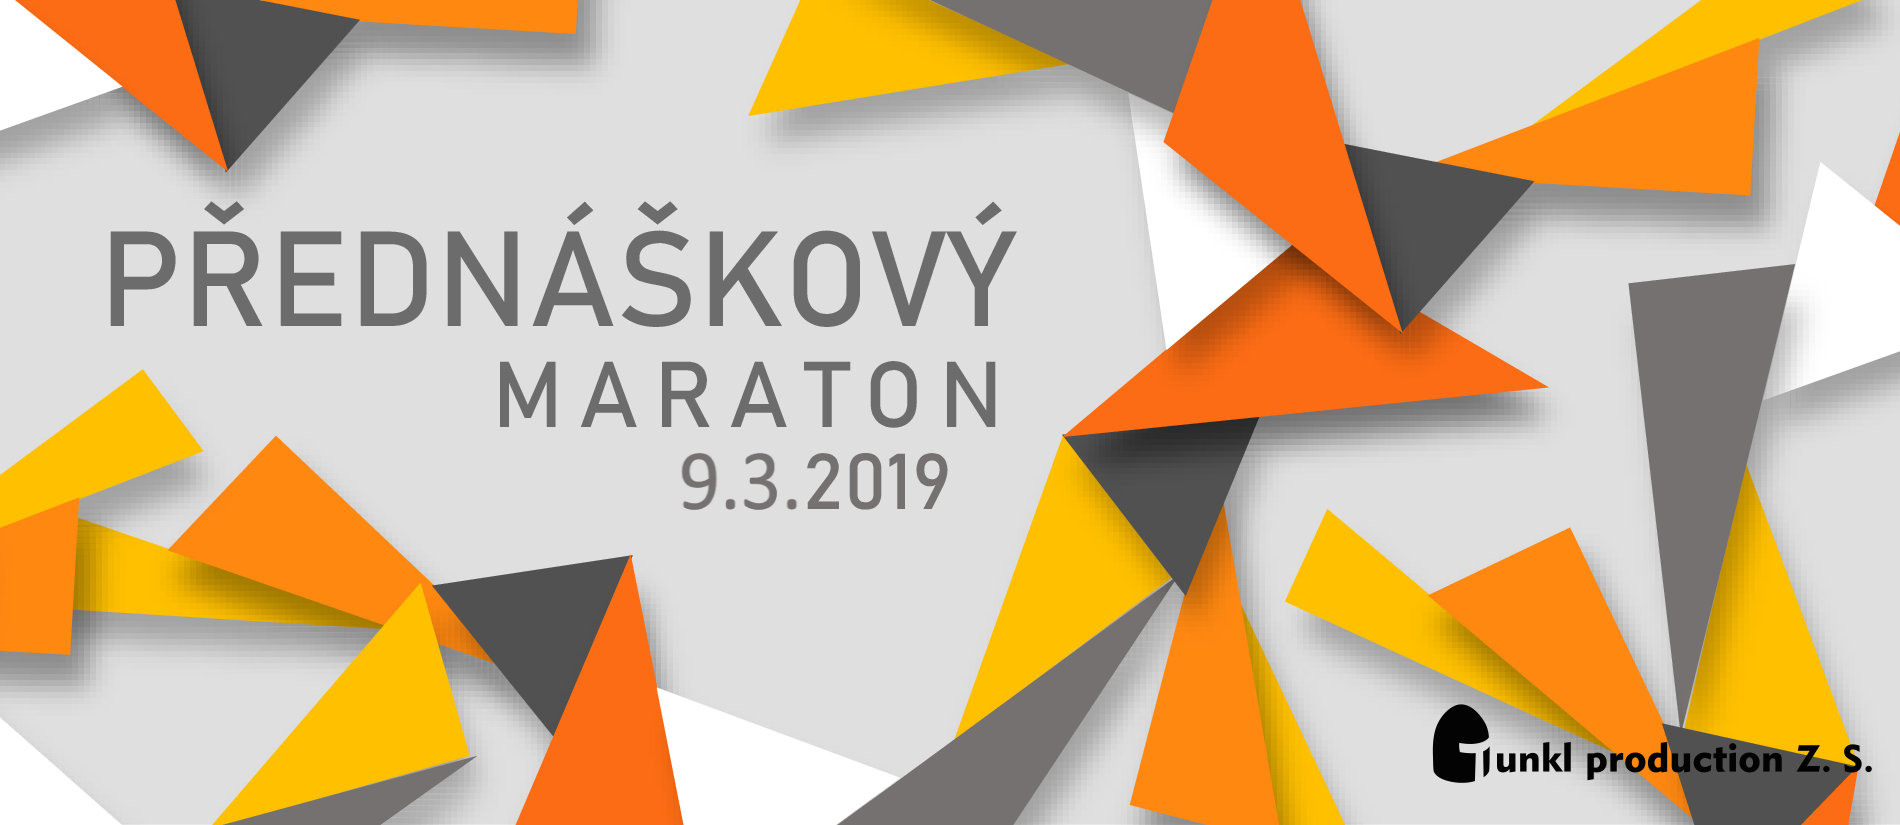
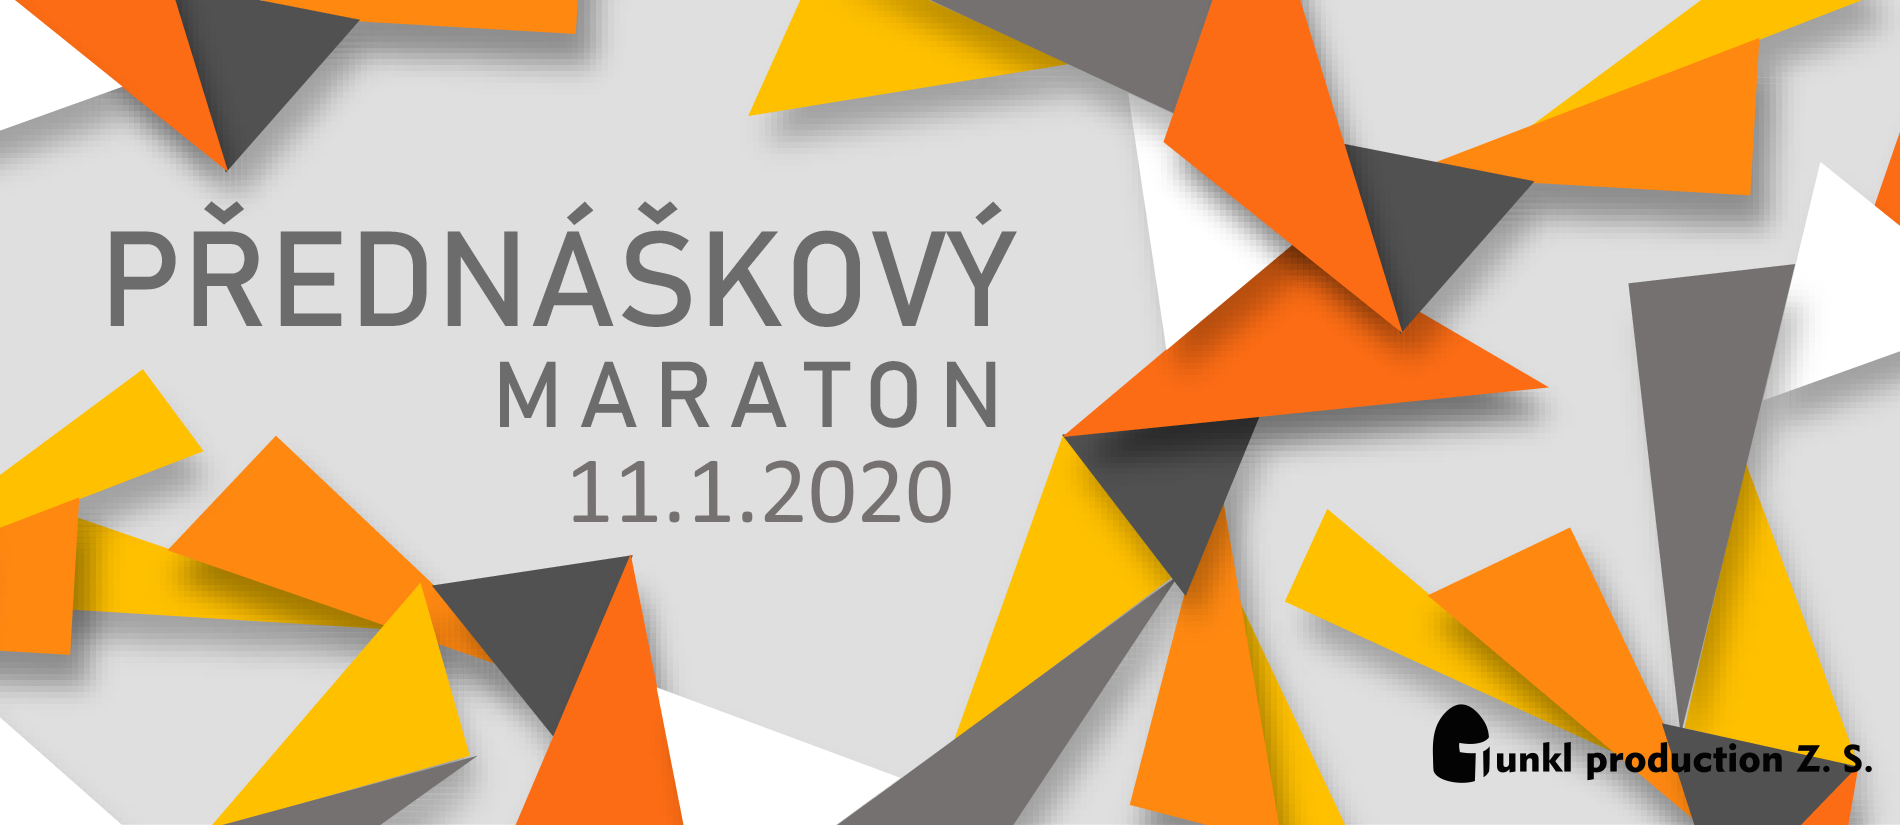
update to 2020

Changed region(s): [[0.2795, 0.5455, 0.5279, 0.6364]]

diff --git a/src/app/components/talks/talks.component.ts b/src/app/components/talks/talks.component.ts
@@ -5,6 +5,7 @@ import {AngularFirestore} from '@angular/fire/firestore';
 import {AuthService} from '../../services/auth.service';
 import {TopicLinesService} from '../../services/topic-lines.service';
 import {TalksPresenter} from '../../shared/classes/talks-presenter';
+import {Talk} from '../../model/talk';
 
 @Component({
   selector: 'app-talks',
@@ -13,139 +14,56 @@ import {TalksPresenter} from '../../shared/classes/talks-presenter';
 })
 export class TalksComponent extends TalksPresenter implements OnInit {
   public user: AppUser = null;
-  universalTalk = {
-    color: '#e5e186',
-    created: new Date(),
-    hasVoted: false,
-    mainSchedule: true,
-    noteForOrg: '',
-    lineId: 'TG3Qyi9dZGROcygoOYDb',
-    talkRef: null,
-    talkId: 'GrizdDtcvFUT37PtT63U',
-    userId: 'rpw0rg8mFqhz0HOJbm3dWRvHWJI3',
-    voters: [],
-    votesCount: 0,
-  };
-
-  programmingLine = {
-    line: {color: '#e65252', name: 'Programování, IT, technika', id: 'TG3Qyi9dZGROcygoOYDb'},
-    lineName: 'Programování, IT, technika',
-  };
-  policyLine = {
-    line: {color: 'green', name: 'Politika a sociologie', id: 'TG3Qyi9dZGROcygoOYDb'},
-    lineName: 'Politika a sociologie',
-  };
-  otherLine = {
-    line: {color: 'orange', name: 'Ostatní', id: 'TG3Qyi9dZGROcygoOYDb'},
-    lineName: 'Ostatní',
-  };
-  historyLine = {
-    line: {color: '#e8e248', name: 'Historie, literatura a umění', id: 'TG3Qyi9dZGROcygoOYDb'},
-    lineName: 'Historie, literatura a umění',
-  };
-  scienceLine = {
-    line: {color: '#8579ce', name: 'Přírodní vědy', id: 'TG3Qyi9dZGROcygoOYDb'},
-    lineName: 'Přírodní vědy',
-  };
-  sportLine = {
-    line: {color: '#a6c8d8', name: 'Pohybové aktivity', id: 'TG3Qyi9dZGROcygoOYDb'},
-    lineName: 'Pohybové aktivity',
-  };
-  managementLine = {
-    line: {color: '#337ab7', name: 'Management, ekonomie, psychologie', id: 'TG3Qyi9dZGROcygoOYDb'},
-    lineName: 'Management, ekonomie, psychologie',
-  };
-  churchLine = {
-    line: {color: 'orange', name: 'Světská a církevní moc', id: 'TG3Qyi9dZGROcygoOYDb'},
-    lineName: 'Církev a duchovní moc',
-  };
-  foodLine = {
-    line: {color: '#e8e248', name: 'Výživa a stravování', id: 'TG3Qyi9dZGROcygoOYDb'},
-    lineName: 'Výživa a stravování',
-  };
-
-  manualTalks = [
-    {
-      ...this.universalTalk,
-      ...this.policyLine,
-      description: 'Dozvíte se co vlastně Brexit znamená, jak to může dopadnout a jaké bude mít Brexit následky. Povíme si také něco o tom, co Brexitu předcházelo a jaká je pozice Velké Británie v EU.',
-      duration: '0:50',
-      name: 'Brexit',
-      userName: 'Hana Brabcová',
-    },
-    {
-      ...this.universalTalk,
-      ...this.managementLine,
-      description: 'Jaký je rozdíl mezi tím, jak s důchodovými penězi zachází vláda a jak by to vypadalo, pokud by tato zodpovědnost byla na každém z nás. Aneb myšlení každého znáš určí budoucnost této země.',
-      duration: '0:50',
-      name: 'Proč si vláda nemůže dovolit bohaté důchodce?',
-      userName: 'Pavel Bednář',
-    },
-    {
-      ...this.universalTalk,
-      ...this.scienceLine,
-      description: 'Popis procesů a efektů alkoholu v organizmu, aneb co se s Vámi děje, když si dáte panáka.',
-      duration: '0:50',
-      name: 'Metabolismus alkoholu',
-      userName: 'Petr Hošek',
-    },
-    {
-      ...this.universalTalk,
-      ...this.otherLine,
-      description: 'Tajemné stezky, putování Zábřežskem po stezkách legend a příběhů.',
-      duration: '0:80',
-      name: 'Putování Zábřežskem',
-      userName: 'Miroslav Kobza',
-    },
-    {
-      ...this.universalTalk,
-      ...this.foodLine,
-      description: 'Volné pokračování loňské přednášky “Mýty o potravinách”. Tentokrát o výživě. Jíme všichni a jíme každý den, naše těla využívají živiny které jim dopřáváme a s nimi také nakládá (a některé s radostí ukládá). Zamyšlení nad naším stravováním aneb jak se do lesa volá, tak se z lesa ozývá...a nebojte i pár dalších mýtů se najde :)',
-      duration: '0:50',
-      name: 'Výživou ke zdraví',
-      userName: 'Adéla Krmelová',
-    },
-    {
-      ...this.universalTalk,
-      ...this.churchLine,
-      description: 'Jak funguje církevní vzdělávání a jaká má specifika.',
-      duration: '0:20',
-      name: 'Církevní vzdělávací systém',
-      userName: 'Jiří Koníček',
-    },
-    {
-      ...this.universalTalk,
-      ...this.programmingLine,
-      description: 'Co umí umělá inteligence? Co je machine learning? Druhy machine learning. Omezení umělé inteligence.',
-      duration: '0:50',
-      name: 'Umělá inteligence, co umí a dokáže',
-      userName: 'Marian Beiedom',
-    },
-    {
-      ...this.universalTalk,
-      ...this.programmingLine,
-      description: 'Ukážeme si roli programování v nezvyklých oborech, například v archeologii. Zaměříme se na vyvolané změny na vysokých školách a na pracovním trhu.',
-      duration: '0:20',
-      name: 'Role programování v současné a budoucí společnosti',
-      userName: 'Zdeněk Mlčoch',
-    },
-    {
-      ...this.universalTalk,
-      ...this.scienceLine,
-      description: 'Máte pocit že se v dnešní hyperracionální době rozmáhá iracionalita? A je to vážně jen pocit? A co to vlastně znamená být racionální? Pokusme se tyto otázky zodpovědět.',
-      duration: '0:50',
-      name: 'Selhání kritického smýšlení v době sociálních sítí',
-      userName: 'Lubomír Grund',
-    },
-    {
-      ...this.universalTalk,
-      ...this.policyLine,
-      description: 'Lehké intro do toho co to vlastně je GDPR, k čemu slouží a jak jej naplnit z pohledu neziskové organizace a organizátora akcí.',
-      duration: '0:20',
-      name: 'GPDR ve zkratce',
-      userName: 'Jan Mlčoch',
-    },
-  ];
+  // universalTalk = {
+  //   color: '#e5e186',
+  //   created: new Date(),
+  //   hasVoted: false,
+  //   mainSchedule: true,
+  //   noteForOrg: '',
+  //   lineId: 'TG3Qyi9dZGROcygoOYDb',
+  //   talkRef: null,
+  //   talkId: 'GrizdDtcvFUT37PtT63U',
+  //   userId: 'rpw0rg8mFqhz0HOJbm3dWRvHWJI3',
+  //   voters: [],
+  //   votesCount: 0,
+  // };
+  //
+  // programmingLine = {
+  //   line: {color: '#e65252', name: 'Programování, IT, technika', id: 'TG3Qyi9dZGROcygoOYDb'},
+  //   lineName: 'Programování, IT, technika',
+  // };
+  // policyLine = {
+  //   line: {color: 'green', name: 'Politika a sociologie', id: 'TG3Qyi9dZGROcygoOYDb'},
+  //   lineName: 'Politika a sociologie',
+  // };
+  // otherLine = {
+  //   line: {color: 'orange', name: 'Ostatní', id: 'TG3Qyi9dZGROcygoOYDb'},
+  //   lineName: 'Ostatní',
+  // };
+  // historyLine = {
+  //   line: {color: '#e8e248', name: 'Historie, literatura a umění', id: 'TG3Qyi9dZGROcygoOYDb'},
+  //   lineName: 'Historie, literatura a umění',
+  // };
+  // scienceLine = {
+  //   line: {color: '#8579ce', name: 'Přírodní vědy', id: 'TG3Qyi9dZGROcygoOYDb'},
+  //   lineName: 'Přírodní vědy',
+  // };
+  // sportLine = {
+  //   line: {color: '#a6c8d8', name: 'Pohybové aktivity', id: 'TG3Qyi9dZGROcygoOYDb'},
+  //   lineName: 'Pohybové aktivity',
+  // };
+  // managementLine = {
+  //   line: {color: '#337ab7', name: 'Management, ekonomie, psychologie', id: 'TG3Qyi9dZGROcygoOYDb'},
+  //   lineName: 'Management, ekonomie, psychologie',
+  // };
+  // churchLine = {
+  //   line: {color: 'orange', name: 'Světská a církevní moc', id: 'TG3Qyi9dZGROcygoOYDb'},
+  //   lineName: 'Církev a duchovní moc',
+  // };
+  // foodLine = {
+  //   line: {color: '#e8e248', name: 'Výživa a stravování', id: 'TG3Qyi9dZGROcygoOYDb'},
+  //   lineName: 'Výživa a stravování',
+  // };
 
   constructor(
     private dialog: MatDialog,
@@ -158,6 +76,21 @@ export class TalksComponent extends TalksPresenter implements OnInit {
   public ngOnInit() {
     this.auth.userData.subscribe((userData: AppUser) => {
       this.user = userData;
+    });
+  }
+
+  public get orderedTalks() {
+    return this.talksView.filter((talk: Talk)=>{
+      return talk.inMainLine;
+    }).sort((a, b) => {
+      if (b.voters.length === a.voters.length) {
+        if (b.name > a.name) {
+          return -1;
+        } else {
+          return 1;
+        }
+      }
+      return b.voters.length - a.voters.length;
     });
   }
 }

diff --git a/src/app/components/talks/talks.component.html b/src/app/components/talks/talks.component.html
@@ -3,63 +3,15 @@
     <div>
       <h1>Přednášky</h1>
       <div>
-        Přednáškový maraton je komunitní akce, na které přednášejí odborníci i laici pro veřejnost. Téma přednášek není nijak omezeno a i proto je to jedinečná akce v regionu i v celé republice. Akce proběhne v sobotu 9. 3. v budově zábřežského gymnázia. Nebojte se přijít klidně i na jedinou přednášku, vstup není nijak omezen.
+        Přednáškový maraton je komunitní akce, na které přednášejí odborníci i laici pro veřejnost. Téma přednášek není nijak omezeno a i proto je to jedinečná akce v regionu i v celé republice. Akce proběhne v sobotu 11.1. v budově zábřežského gymnázia. Nebojte se přijít klidně i na jedinou přednášku, <strong> vstup není nijak omezen.</strong>
       </div>
       <br>
     </div>
     <div>
-      <h5>Hlavní program</h5>
-    </div>
-    <div>
-      <div>
-        <span class="time">&nbsp;&nbsp;9:00 - 10:00</span><span class="title">Brexit</span>
-      </div>
-      <div>
-        <span class="time">10:00 - 11:00</span><span class="title">Proč si vláda nemůže dovolit bohaté důchodce?</span>
-      </div>
-      <div>
-        <span class="time">11:00 - 12:00</span><span class="title">Metabolismus alkoholu</span>
-      </div>
-      <div>
-        <span class="time">13:30 - 15:00</span><span class="title">Putování Zábřežskem</span>
-      </div>
-      <div>
-        <span class="time">15:00 - 16:00</span><span class="title">Výživou ke zdraví</span>
-      </div>
-      <div>
-        <span class="time">16:00 - 16:30</span><span class="title">Církevní vzdělávací systém</span>
-      </div>
-      <div>
-        <span class="time">16:30 - 17:30</span><span class="title">Umělá inteligence</span>
-      </div>
-    </div>
-    <br />
-    <br />
-    <div>
-      <h5>Vedlejší program</h5>
-      <div>
-        <span class="time">&nbsp;&nbsp;9:00 - 10:00</span><span class="title">Role programování v současné společnosti</span>
-      </div>
-      <div>
-        <span class="time">10:00 - 11:00</span><span class="title">Selhání kritického smýšlení v době sociálních sítí</span>
-      </div>
-      <div>
-        <span class="time">13:30 - 14:30</span><span class="title">Historie Caterpillaru</span>
-      </div>
-      <div>
-        <span class="time">16:00 - 16:30</span><span class="title">GDPR</span>
-      </div>
-      <div>
-        <span class="time">16:30 - 17:00</span><span class="title">Církevní vzdělávací systém pokračování</span>
-      </div>
-    </div>
-    <br />
-    <br />
-    <div>
-      <h5>Detaily přednášek</h5>
+      <h5>Detaily přednášek budou časem doplněny.</h5>
     </div>
     <div class="row talkList">
-      <app-talk-preview *ngFor="let talk of manualTalks" [talk]="talk" [showVotes]="false"></app-talk-preview>
+      <app-talk-preview *ngFor="let talk of orderedTalks" [talk]="talk" [showVotes]="false"></app-talk-preview>
     </div>
   </div>
   <div *ngIf="!(talks | async)">

diff --git a/src/app/components/home/home.component.html b/src/app/components/home/home.component.html
@@ -1,6 +1,6 @@
 <!-- Example row of columns -->
 <div class="poster-container">
-  <img src="assets/img/uvodka.png" class="poster" alt="Přednáškový maraton 2019"/>
+  <img src="assets/img/uvodka.png" class="poster" alt="Přednáškový maraton 2020"/>
 </div>
 
 <div class="row about-header">
@@ -9,7 +9,7 @@
 <div class="row about">
   <p style="font-weight: bold">
     Přednáškový maraton je unikátní akce, na které se setkávají jak odborníci tak laici z různých oborů a navzájem si
-    vyměňují své zkušenosti a znalosti. Letos se uskuteční již osmý ročník této akce.
+    vyměňují své zkušenosti a znalosti. Letos se uskuteční již devátý ročník této akce.
   </p>
   <p style="font-weight: bold">
     Letos jsme si pro vás připravili hlavní a vedlejší program. V rámci hlavního programu se můžete těšit na nejlepší
@@ -48,8 +48,8 @@
     <!--<p><i>Hlasování spustíme až pro vás budeme mít nachystaných alespoň několik přednášek</i></p>-->
   </div>
   <div class="col-md-4">
-    <h3>Warm-up and Overtime</h3>
-    <p>Pro zájemce a skalní fanoušky akce chystáme program na pátek a neděli.</p>
+    <h3>Přespání</h3>
+    <p>Pro zájemce je zde možnost přespání už od pátku do neděle.</p>
     <p>
       <a class="btn btn-default btn-primary" routerLink="/warm-up">Více info »</a>
     </p>

diff --git a/src/app/shared/classes/talks-presenter.ts b/src/app/shared/classes/talks-presenter.ts
@@ -5,7 +5,7 @@ import {AppUser} from '../../model/appUser';
 import {Observable} from 'rxjs/internal/Observable';
 import {AngularFirestore, AngularFirestoreCollection, DocumentChangeAction} from '@angular/fire/firestore';
 import {Talk, TopicLine} from '../../model/talk';
-import {map, take, zipAll} from 'rxjs/operators';
+import {map, take} from 'rxjs/operators';
 import {Subject} from 'rxjs/internal/Subject';
 import {ObservableInput} from 'rxjs/src/internal/types';
 import {AuthService} from '../../services/auth.service';
@@ -37,9 +37,7 @@ export class TalksPresenter {
     this.getTalks().subscribe((talks: Talk[]) => {
       this.talksView = [];
       talks.forEach((talkData: any) => {
-        if (this.user || talkData.mainSchedule) {
           this.talksView.push(talkData);
-        }
       });
       this.fillLinesData();
     });

diff --git a/src/app/components/nav/nav.component.html b/src/app/components/nav/nav.component.html
@@ -18,7 +18,7 @@
       <li
         *ngIf="!(authService.userData | async)"
         class="nav-item">
-        <a class="nav-link" (click)="closeNavbar()" routerLink="/warm-up" routerLinkActive="active">Warm-up</a>
+        <a class="nav-link" (click)="closeNavbar()" routerLink="/warm-up" routerLinkActive="active">Přespání</a>
       </li>
       <li class="nav-item" *ngIf="authService.userData | async">
         <a class="nav-link" (click)="closeNavbar()" routerLink="/talks-weekend" routerLinkActive="active">Víkend</a>

diff --git a/src/app/components/talks-weekend/talks-weekend.component.ts b/src/app/components/talks-weekend/talks-weekend.component.ts
@@ -39,7 +39,9 @@ export class TalksWeekendComponent extends TalksPresenter implements OnInit {
   }
 
   public get orderedTalks() {
-    return this.talksView.sort((a, b) => {
+    return this.talksView.filter((talk: Talk)=>{
+      return !talk.inMainLine;
+    }).sort((a, b) => {
       if (b.voters.length === a.voters.length) {
         if (b.name > a.name) {
           return -1;

diff --git a/src/app/components/talks-weekend/talks-weekend.component.html b/src/app/components/talks-weekend/talks-weekend.component.html
@@ -1,7 +1,7 @@
 <div class="container talks">
   <div [class.hide]="!(talks | async)">
     <div class="row welcome">
-      <h1>Warm up a overtime</h1>
+      <h1>Přespání</h1>
       <p>
         Minulé ročníky Přednáškového maratonu probíhali non-stop od pátku do neděle. Letos jsme se rozhodli mírně změnit
         tento

diff --git a/src/index.html b/src/index.html
@@ -2,7 +2,7 @@
 <html lang="en">
 <head>
   <meta charset="utf-8">
-  <title>Přednáškový maraton 2019</title>
+  <title>Přednáškový maraton 2020</title>
   <base href="/">
 
   <link href="https://fonts.googleapis.com/icon?family=Material+Icons" rel="stylesheet">

diff --git a/src/app/components/warm-up/warm-up.component.html b/src/app/components/warm-up/warm-up.component.html
@@ -1,5 +1,5 @@
 <div class="container">
-  <h1>Warm up a overtime</h1>
+  <h1>Přespání</h1>
   <p>
     Minulé ročníky Přednáškového maratonu probíhali non-stop od pátku do neděle. Letos jsme se rozhodli mírně změnit
     tento

diff --git a/src/app/model/talk.ts b/src/app/model/talk.ts
@@ -2,6 +2,7 @@ import {AppUser} from './appUser';
 
 export interface Talk {
   line?: TopicLine;
+  inMainLine?: boolean;
   showVoteButton: boolean;
   talkId: string;
   talkRef: any;

diff --git a/src/app/components/contact/contact.component.html b/src/app/components/contact/contact.component.html
@@ -2,6 +2,6 @@
   <h1>Kontakt</h1>
   <br />
   <div style="font-weight: bold">
-    prednaskovy.maraton@gmail.com
+ prednaskovy.maraton@gmail.com
   </div>
 </div>
